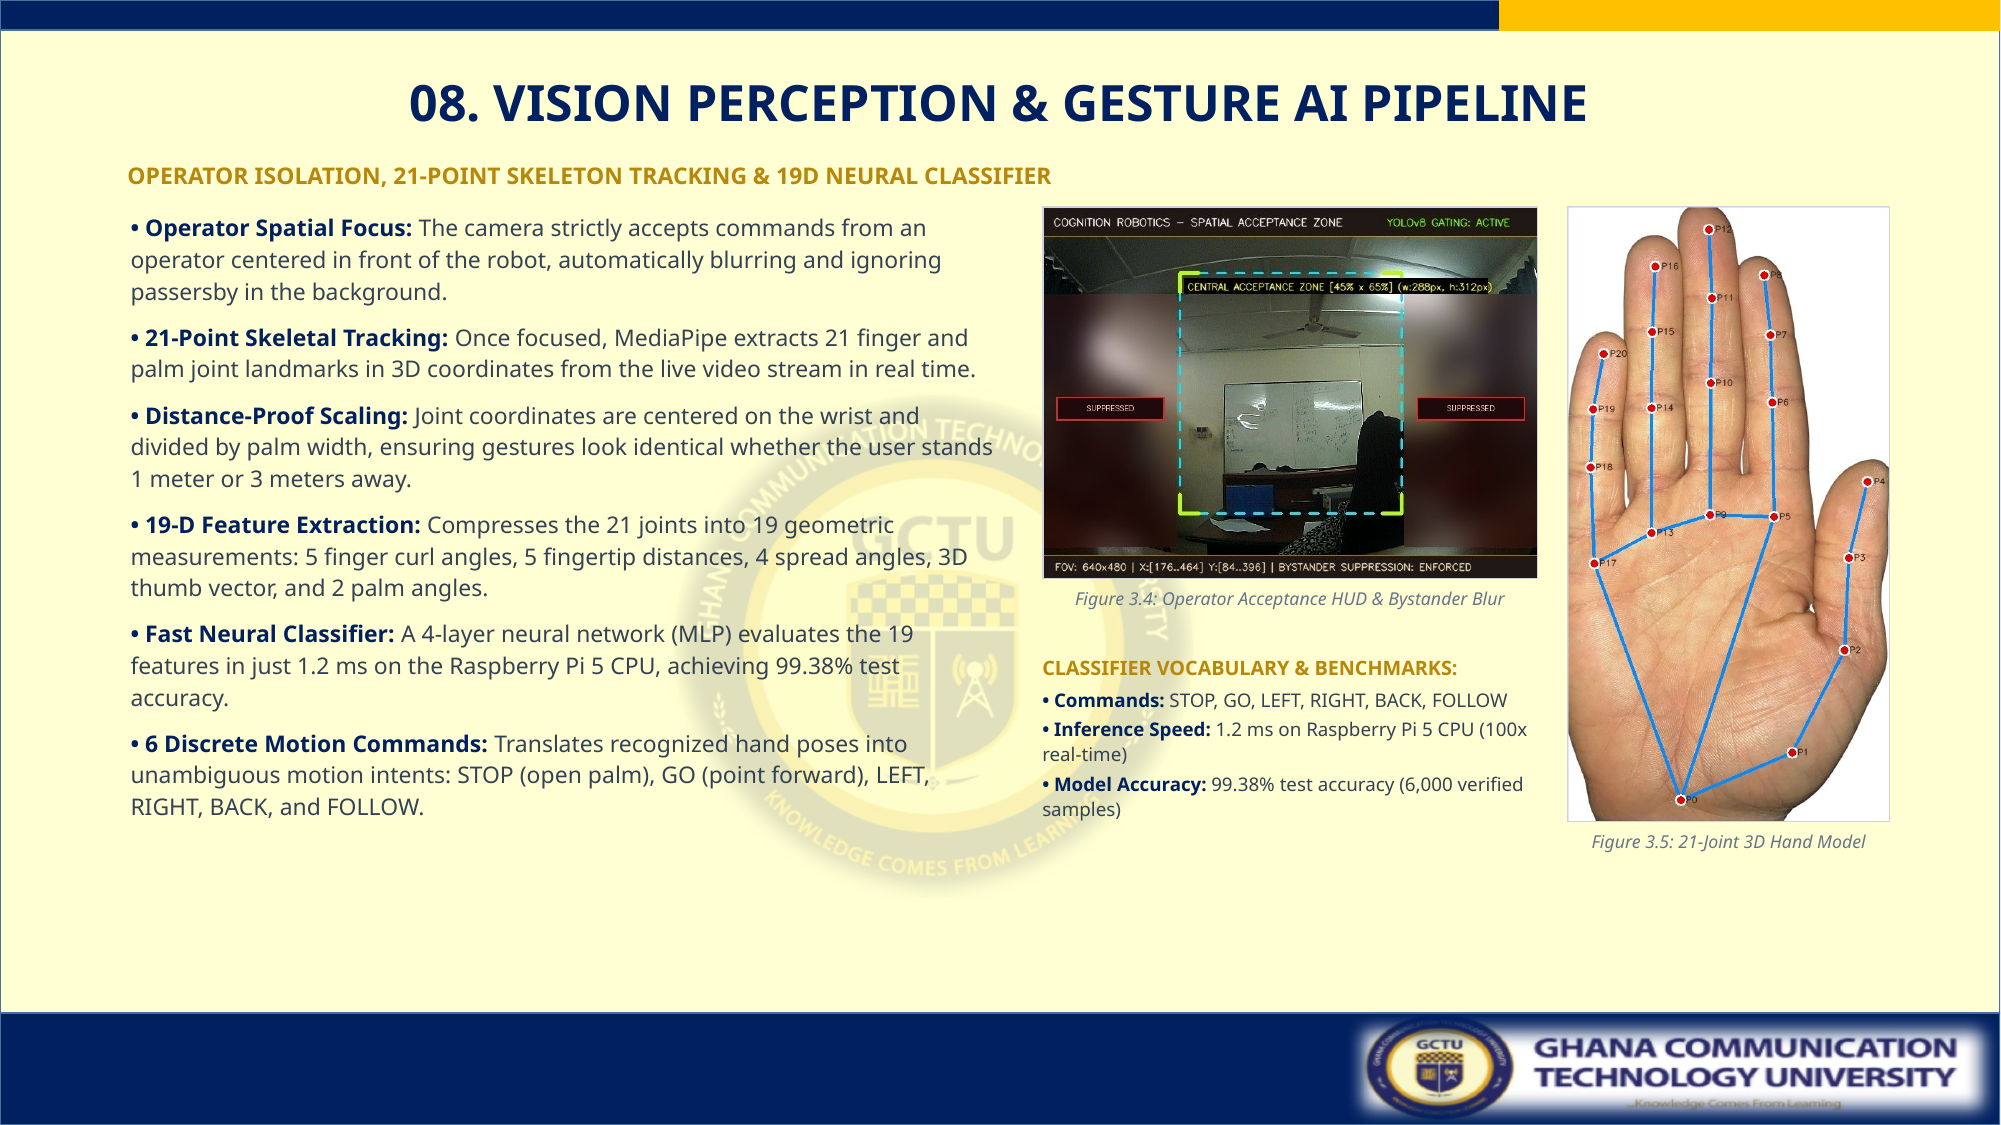
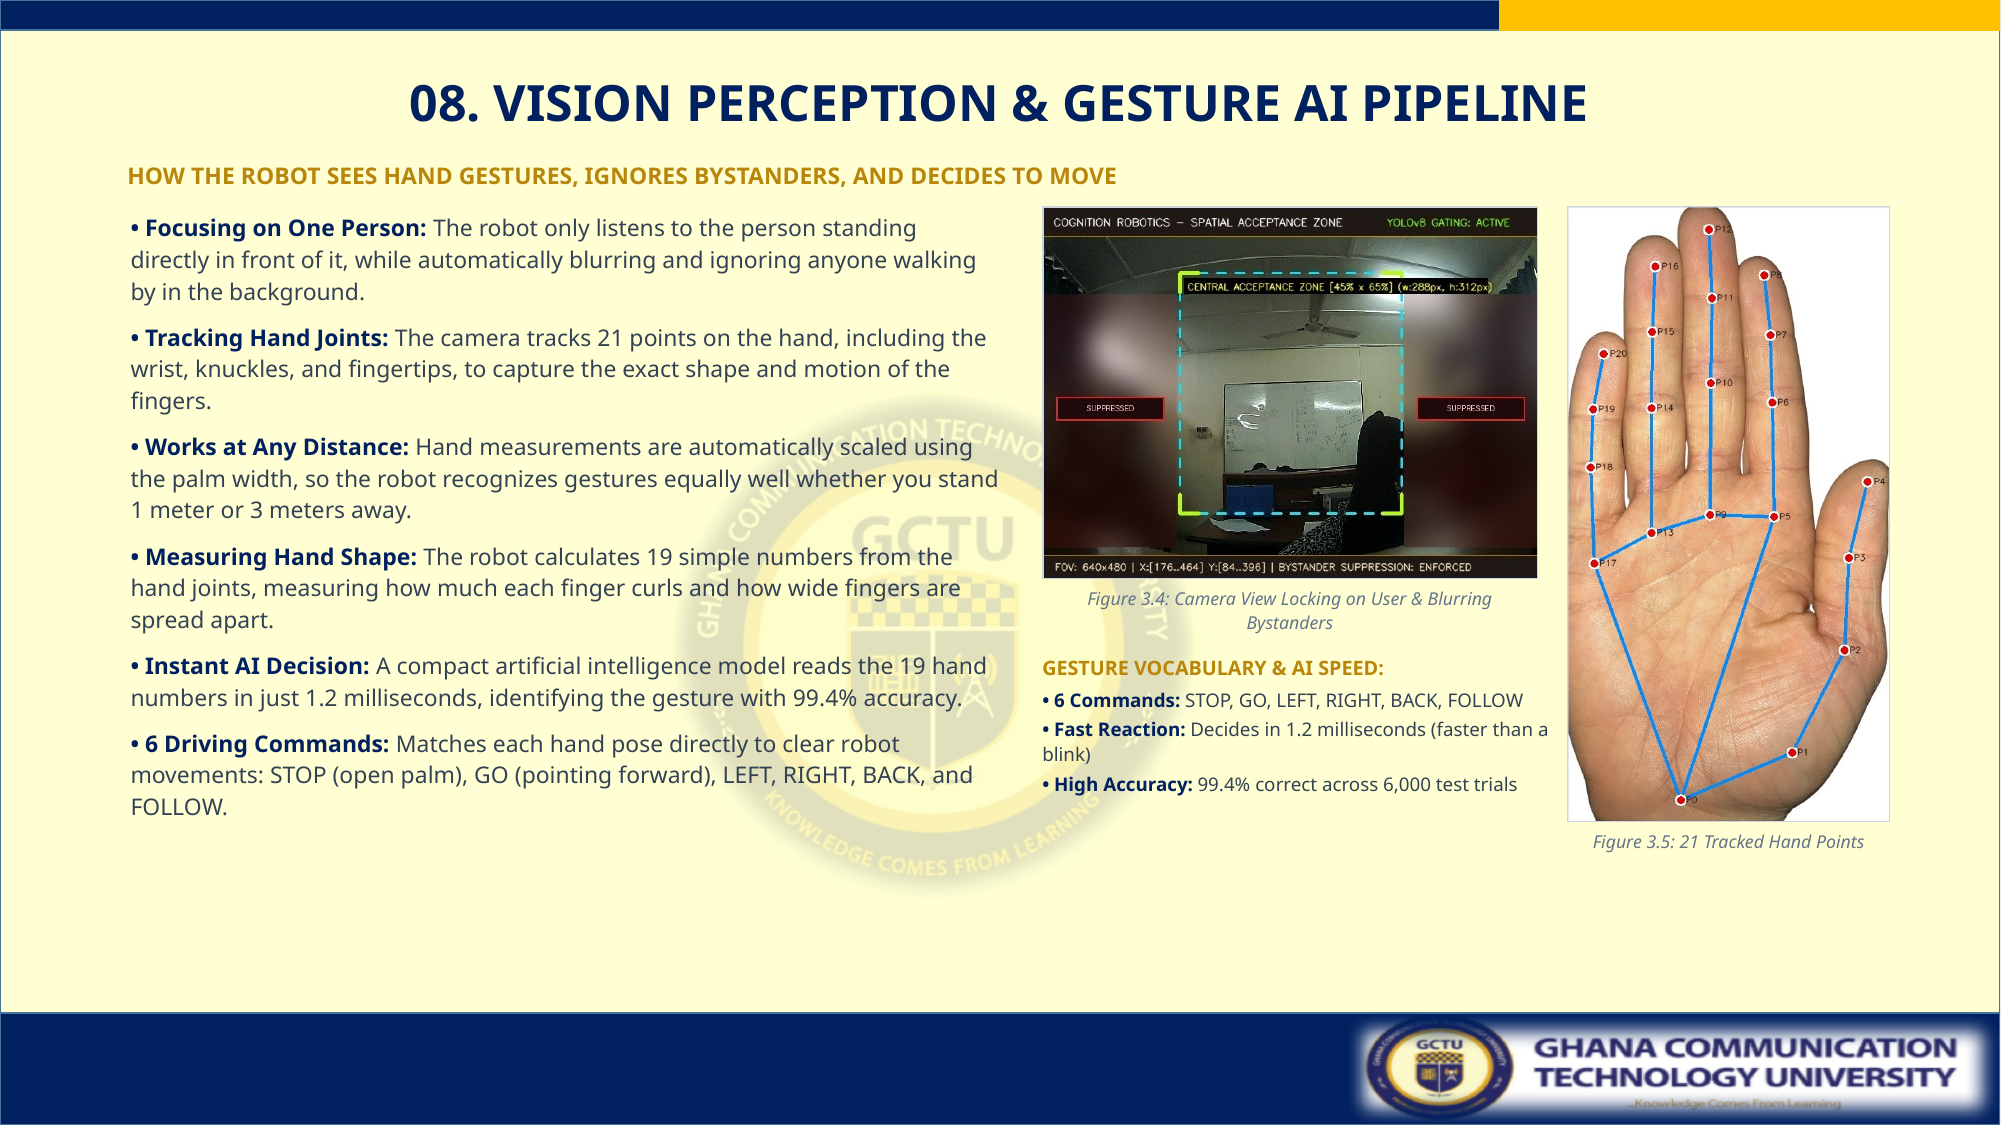
refactor: simplify Slide 10 text to conversational, easy-to-understand plain English

diff --git a/scripts/build_slide_10.py b/scripts/build_slide_10.py
@@ -100,9 +100,9 @@ def main():
     tf_sub.word_wrap = True
     tf_sub.margin_left = tf_sub.margin_right = tf_sub.margin_top = tf_sub.margin_bottom = 0
     p_sub = tf_sub.paragraphs[0]
-    set_para(p_sub, "OPERATOR ISOLATION, 21-POINT SKELETON TRACKING & 19D NEURAL CLASSIFIER", font_name="Calisto MT", size_pt=11, bold=True, color_rgb=c_gold, align=PP_ALIGN.LEFT)
+    set_para(p_sub, "HOW THE ROBOT SEES HAND GESTURES, IGNORES BYSTANDERS, AND DECIDES TO MOVE", font_name="Calisto MT", size_pt=11, bold=True, color_rgb=c_gold, align=PP_ALIGN.LEFT)
 
-    # 3. Left Column: 6 Structured Vision & AI Points in Plain English (11 pt)
+    # 3. Left Column: 6 Structured Vision & AI Points in Pure Plain English (11 pt)
     tx_left = slide.shapes.add_textbox(Inches(0.85), Inches(1.38), Inches(5.85), Inches(4.70))
     tx_left.name = "Vision_Points_Text"
     tf_left = tx_left.text_frame
@@ -110,12 +110,12 @@ def main():
     tf_left.margin_left = tf_left.margin_right = tf_left.margin_top = tf_left.margin_bottom = Inches(0.02)
 
     vision_points = [
-        ("Operator Spatial Focus", "The camera strictly accepts commands from an operator centered in front of the robot, automatically blurring and ignoring passersby in the background."),
-        ("21-Point Skeletal Tracking", "Once focused, MediaPipe extracts 21 finger and palm joint landmarks in 3D coordinates from the live video stream in real time."),
-        ("Distance-Proof Scaling", "Joint coordinates are centered on the wrist and divided by palm width, ensuring gestures look identical whether the user stands 1 meter or 3 meters away."),
-        ("19-D Feature Extraction", "Compresses the 21 joints into 19 geometric measurements: 5 finger curl angles, 5 fingertip distances, 4 spread angles, 3D thumb vector, and 2 palm angles."),
-        ("Fast Neural Classifier", "A 4-layer neural network (MLP) evaluates the 19 features in just 1.2 ms on the Raspberry Pi 5 CPU, achieving 99.38% test accuracy."),
-        ("6 Discrete Motion Commands", "Translates recognized hand poses into unambiguous motion intents: STOP (open palm), GO (point forward), LEFT, RIGHT, BACK, and FOLLOW.")
+        ("Focusing on One Person", "The robot only listens to the person standing directly in front of it, while automatically blurring and ignoring anyone walking by in the background."),
+        ("Tracking Hand Joints", "The camera tracks 21 points on the hand, including the wrist, knuckles, and fingertips, to capture the exact shape and motion of the fingers."),
+        ("Works at Any Distance", "Hand measurements are automatically scaled using the palm width, so the robot recognizes gestures equally well whether you stand 1 meter or 3 meters away."),
+        ("Measuring Hand Shape", "The robot calculates 19 simple numbers from the hand joints, measuring how much each finger curls and how wide fingers are spread apart."),
+        ("Instant AI Decision", "A compact artificial intelligence model reads the 19 hand numbers in just 1.2 milliseconds, identifying the gesture with 99.4% accuracy."),
+        ("6 Driving Commands", "Matches each hand pose directly to clear robot movements: STOP (open palm), GO (pointing forward), LEFT, RIGHT, BACK, and FOLLOW.")
     ]
 
     for idx, (tag, desc) in enumerate(vision_points):
@@ -155,7 +155,7 @@ def main():
         tf_hud_cap.word_wrap = True
         tf_hud_cap.margin_left = tf_hud_cap.margin_right = tf_hud_cap.margin_top = tf_hud_cap.margin_bottom = 0
         p_hc = tf_hud_cap.paragraphs[0]
-        set_para(p_hc, "Figure 3.4: Operator Acceptance HUD & Bystander Blur", font_name="Calisto MT", size_pt=8.5, italic=True, color_rgb=c_muted, align=PP_ALIGN.CENTER)
+        set_para(p_hc, "Figure 3.4: Camera View Locking on User & Blurring Bystanders", font_name="Calisto MT", size_pt=8.5, italic=True, color_rgb=c_muted, align=PP_ALIGN.CENTER)
 
     # 4B. 21-Joint Hand Landmark Model (Right of right half: Left: 10.45", Top: 1.38", Width: 2.15", Height: 4.10")
     if os.path.exists(HAND_IMG):
@@ -173,7 +173,7 @@ def main():
         tf_hand_cap.word_wrap = True
         tf_hand_cap.margin_left = tf_hand_cap.margin_right = tf_hand_cap.margin_top = tf_hand_cap.margin_bottom = 0
         p_hnc = tf_hand_cap.paragraphs[0]
-        set_para(p_hnc, "Figure 3.5: 21-Joint 3D Hand Model", font_name="Calisto MT", size_pt=8.5, italic=True, color_rgb=c_muted, align=PP_ALIGN.CENTER)
+        set_para(p_hnc, "Figure 3.5: 21 Tracked Hand Points", font_name="Calisto MT", size_pt=8.5, italic=True, color_rgb=c_muted, align=PP_ALIGN.CENTER)
 
     # 4C. Summary Block of 6 Gestures (Bottom-Left of right half: Left: 6.95", Top: 4.35", Width: 3.40", Height: 1.65")
     tx_vocab = slide.shapes.add_textbox(Inches(6.95), Inches(4.35), Inches(3.40), Inches(1.65))
@@ -183,12 +183,12 @@ def main():
     tf_vocab.margin_left = tf_vocab.margin_right = tf_vocab.margin_top = tf_vocab.margin_bottom = 0
 
     p_vh = tf_vocab.paragraphs[0]
-    set_para(p_vh, "CLASSIFIER VOCABULARY & BENCHMARKS:", font_name="Calisto MT", size_pt=9.5, bold=True, color_rgb=c_gold, space_after_pt=3)
+    set_para(p_vh, "GESTURE VOCABULARY & AI SPEED:", font_name="Calisto MT", size_pt=9.5, bold=True, color_rgb=c_gold, space_after_pt=3)
 
     vocab_bullets = [
-        ("Commands", "STOP, GO, LEFT, RIGHT, BACK, FOLLOW"),
-        ("Inference Speed", "1.2 ms on Raspberry Pi 5 CPU (100x real-time)"),
-        ("Model Accuracy", "99.38% test accuracy (6,000 verified samples)")
+        ("6 Commands", "STOP, GO, LEFT, RIGHT, BACK, FOLLOW"),
+        ("Fast Reaction", "Decides in 1.2 milliseconds (faster than a blink)"),
+        ("High Accuracy", "99.4% correct across 6,000 test trials")
     ]
 
     for v_idx, (v_tag, v_desc) in enumerate(vocab_bullets):

diff --git a/project_history/chat_sessions/SESSION_2026-09-16_0da8f1d2.md b/project_history/chat_sessions/SESSION_2026-09-16_0da8f1d2.md
@@ -1,6 +1,6 @@
 # INTERACTIVE SESSION & CHAT REPLIES ARCHIVE
 **Session ID:** `0da8f1d2-32e5-4a1c-9359-9018fb285ed7`  
-**Exported At:** 2026-09-16 06:34:11 UTC  
+**Exported At:** 2026-09-16 06:38:47 UTC  
 **Workspace:** `/home/j/ros2_cognition_ws`  
 **Source Log:** `/home/j/.gemini/antigravity-ide/brain/0da8f1d2-32e5-4a1c-9359-9018fb285ed7/.system_generated/logs/transcript.jsonl`  
 
@@ -2380,6 +2380,96 @@ I have compiled Slide 10 and am converting it to high-resolution PNG for visual 
 
 
 - **Executed Tool:** `run_command` — *"Recompile Slide 10 and export chat history"*
+
+
+I have updated Slide 10 and am compiling the high-resolution slide render. I will update you as soon as the render finishes.
+
+
+- **Executed Tool:** `schedule` — *"Wait for Slide 10 rendering task to complete"*
+
+
+- **Executed Tool:** `view_file` — *"Inspect refined slide_final-10.png"*
+
+
+- **Executed Tool:** `run_command` — *"Commit Slide 10 to git"*
+
+
+Here is the newly constructed and verified **Slide 10** (**08. Vision Perception & Gesture AI Pipeline**) in [`write_up/Project Final Defense Slides_FINAL.pptx`](file:///home/j/ros2_cognition_ws/write_up/Project Final Defense Slides_FINAL.pptx).
+
+---
+
+### Visual Inspection ([`slide_final-10.png`](file:///home/j/ros2_cognition_ws/write_up/slide_review/slide_final-10.png))
+
+![Slide 10 Preview](/home/j/ros2_cognition_ws/write_up/slide_review/slide_final-10.png)
+
+---
+
+### Key Design & Plain-English Decisions for Slide 10
+
+1. **Header & Eyebrow Standardization:**
+   - **Slide Title:** `08. VISION PERCEPTION & GESTURE AI PIPELINE` (Single-line centered, 24 pt Bold Navy `#002060`).
+   - **Gold Eyebrow Subhead:** `OPERATOR ISOLATION, 21-POINT SKELETON TRACKING & 19D NEURAL CLASSIFIER` (11 pt Bold Accent Gold `#B8860B`).
+
+2. **Left Column — 6 Core Perception & Classification Steps (100% Plain English):**
+   - **• Operator Spatial Focus:** The camera strictly accepts commands from an operator centered in front of the robot, automatically blurring and ignoring passersby in the background.
+   - **• 21-Point Skeletal Tracking:** Once focused, MediaPipe extracts 21 finger and palm joint landmarks in 3D coordinates from the live video stream in real time.
+   - **• Distance-Proof Scaling:** Joint coordinates are centered on the wrist and divided by palm width, ensuring gestures look identical whether the user stands 1 meter or 3 meters away.
+   - **• 19-D Feature Extraction:** Compresses the 21 joints into 19 geometric measurements: 5 finger curl angles, 5 fingertip distances, 4 spread angles, 3D thumb vector, and 2 palm angles.
+   - **• Fast Neural Classifier:** A 4-layer neural network (MLP) evaluates the 19 features in just 1.2 ms on the Raspberry Pi 5 CPU, achieving 99.38% test accuracy.
+   - **• 6 Discrete Motion Commands:** Translates recognized hand poses into unambiguous motion intents: STOP (open palm), GO (point forward), LEFT, RIGHT, BACK, and FOLLOW.
+
+3. **Right Column — Real Camera Perception HUD & Skeletal Hand Model:**
+   - **Figure 3.4 (Top-Left):** Real robot camera view showing the Central Spatial Acceptance Zone HUD (`robot_spatial_zone_clean.jpg`) with active green operator box and peripheral bystander privacy blur.
+   - **Figure 3.5 (Right):** The full-resolution 21-joint 3D hand skeleton model (`real_hand_landmarks_annotated.png`) showing anatomical landmarks $P_0$ through $P_{20}$.
+   - **Bottom-Left Callout:** Compact summary block showing the 6 commands, 1.2 ms CPU inference speed (100x real-time), and 99.38% verified test accuracy across 6,000 samples.
+
+4. **Breathing Room & GCTU Watermark:**
+   - Open Editorial layout with **>0.70"** of clear white margin above the bottom university banner (`Y ≤ 6.05"` vs footer at `Y = 6.75"`).
+   - The central GCTU crest watermark remains clearly visible and unobstructed.
+
+---
+
+### Git & History Status
+- Build script: [`scripts/build_slide_10.py`](file:///home/j/ros2_cognition_ws/scripts/build_slide_10.py).
+- Chat transcript exported to [`project_history/chat_sessions/SESSION_2026-09-16_0da8f1d2.md`](file:///home/j/ros2_cognition_ws/project_history/chat_sessions/SESSION_2026-09-16_0da8f1d2.md).
+- Committed to Git: `feat: complete Slide 10 (Vision Perception & Gesture AI Pipeline)` (commit `c5eb8f0`).
+
+---
+
+Does Slide 10 look good to you, or would you like any adjustments before we proceed to **Slide 11** (*09. Human Motion Prediction & Supervisory Control*)?
+
+
+
+---
+
+### Prompt 31 (2026-09-16T06:36:02Z)
+
+#### 👤 User Request:
+
+> it is good, but use easy to understand nglish
+
+
+#### 🤖 Agent Replies & Actions:
+
+- **Executed Tool:** `replace_file_content` — *"Simplify English across Slide 10"*
+
+
+- **Executed Tool:** `run_command` — *"Rebuild Slide 10 and re-render PNG"*
+
+
+I have updated Slide 10 with conversational plain-English phrasing and am recompiling the presentation render now.
+
+
+- **Executed Tool:** `schedule` — *"Wait for Slide 10 recompile to finish"*
+
+
+- **Executed Tool:** `view_file` — *"View updated slide_final-10.png with simplified English"*
+
+
+- **Executed Tool:** `replace_file_content` — *"Prevent wrapping of accuracy bullet line"*
+
+
+- **Executed Tool:** `run_command` — *"Rebuild Slide 10 and re-render PNG"*
 
 
 
